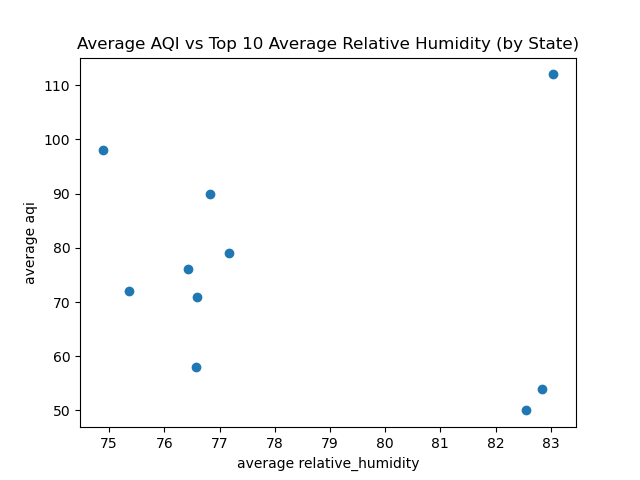
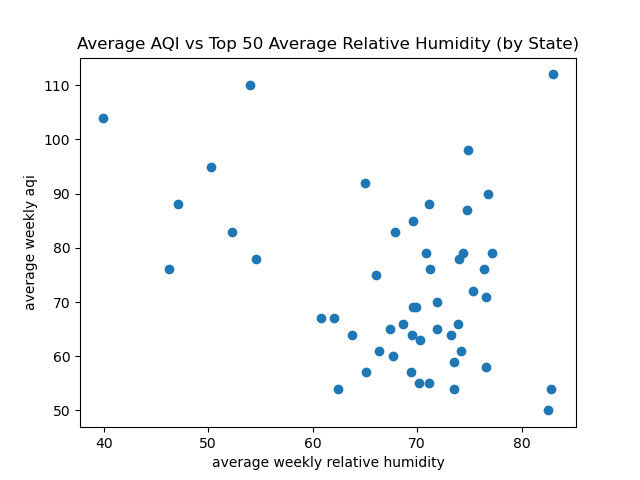
updated visuals to top 50

diff --git a/visuals.py b/visuals.py
@@ -30,17 +30,17 @@ for num in data[1:]:
 def create_temperature_graph():
     sort_by_temperature = sorted(num_data, key = lambda x: x[1])
 
-    top_10_temperature = []
+    top_50_temperature = []
     top_aqi = []
-    for index in range(len(sort_by_temperature) - 10, len(sort_by_temperature)):
-        top_10_temperature.append(sort_by_temperature[index][1])
+    for index in range(len(sort_by_temperature) - 50, len(sort_by_temperature)):
+        top_50_temperature.append(sort_by_temperature[index][1])
         top_aqi.append(sort_by_temperature[index][5])
 
     fig1, ax1 = plt.subplots()
-    ax1.scatter(top_10_temperature, top_aqi)
-    ax1.set_xlabel("average temperature")
-    ax1.set_ylabel("average aqi")
-    ax1.set_title("Average AQI vs Top 10 Average Temperature (by State)")
+    ax1.scatter(top_50_temperature, top_aqi)
+    ax1.set_xlabel("average weekly temperature")
+    ax1.set_ylabel("average weekly aqi")
+    ax1.set_title("Average AQI vs Top 50 Average Temperature (by State)")
 
     fig1.savefig("temperature.png")
 
@@ -48,17 +48,17 @@ def create_temperature_graph():
 def create_humidity_graph():
     sort_by_humidity = sorted(num_data, key = lambda x: x[2])
 
-    top_10_humidity = []
+    top_50_humidity = []
     top_aqi = []
-    for index in range(len(sort_by_humidity) - 10, len(sort_by_humidity)):
-        top_10_humidity.append(sort_by_humidity[index][2])
+    for index in range(len(sort_by_humidity) - 50, len(sort_by_humidity)):
+        top_50_humidity.append(sort_by_humidity[index][2])
         top_aqi.append(sort_by_humidity[index][5])
 
     fig2, ax2 = plt.subplots()
-    ax2.scatter(top_10_humidity, top_aqi)
-    ax2.set_xlabel("average relative_humidity")
-    ax2.set_ylabel("average aqi")
-    ax2.set_title("Average AQI vs Top 10 Average Relative Humidity (by State)")
+    ax2.scatter(top_50_humidity, top_aqi)
+    ax2.set_xlabel("average weekly relative humidity")
+    ax2.set_ylabel("average weekly aqi")
+    ax2.set_title("Average AQI vs Top 50 Average Relative Humidity (by State)")
 
     fig2.savefig("humidity.png")
 
@@ -66,17 +66,17 @@ def create_humidity_graph():
 def create_precipitation_graph():
     sort_by_precipitation = sorted(num_data, key = lambda x: x[3])
 
-    top_10_precipitation = []
+    top_50_precipitation = []
     top_aqi = []
-    for index in range(len(sort_by_precipitation) - 10, len(sort_by_precipitation)):
-        top_10_precipitation.append(sort_by_precipitation[index][3])
+    for index in range(len(sort_by_precipitation) - 50, len(sort_by_precipitation)):
+        top_50_precipitation.append(sort_by_precipitation[index][3])
         top_aqi.append(sort_by_precipitation[index][5])
 
     fig3, ax3 = plt.subplots()
-    ax3.scatter(top_10_precipitation, top_aqi)
-    ax3.set_xlabel("average precipitation")
-    ax3.set_ylabel("average aqi")
-    ax3.set_title("Average AQI vs Top 10 Average Precipitation (by State)")
+    ax3.scatter(top_50_precipitation, top_aqi)
+    ax3.set_xlabel("average weekly precipitation")
+    ax3.set_ylabel("average weekly aqi")
+    ax3.set_title("Average AQI vs Top 50 Average Precipitation (by State)")
 
     fig3.savefig("precipitation.png")
 
@@ -84,17 +84,17 @@ def create_precipitation_graph():
 def create_cloud_cover_graph():
     sort_by_cloud_cover = sorted(num_data, key = lambda x: x[4])
 
-    top_10_cloud_cover = []
+    top_50_cloud_cover = []
     top_aqi = []
-    for index in range(len(sort_by_cloud_cover) - 10, len(sort_by_cloud_cover)):
-        top_10_cloud_cover.append(sort_by_cloud_cover[index][4])
+    for index in range(len(sort_by_cloud_cover) - 50, len(sort_by_cloud_cover)):
+        top_50_cloud_cover.append(sort_by_cloud_cover[index][4])
         top_aqi.append(sort_by_cloud_cover[index][5])
 
     fig4, ax4 = plt.subplots()
-    ax4.scatter(top_10_cloud_cover, top_aqi)
-    ax4.set_xlabel("average cloud cover")
-    ax4.set_ylabel("average aqi")
-    ax4.set_title("Average AQI vs Top 10 Average Cloud Cover (by State)")
+    ax4.scatter(top_50_cloud_cover, top_aqi)
+    ax4.set_xlabel("average weekly cloud cover")
+    ax4.set_ylabel("average weekly aqi")
+    ax4.set_title("Average AQI vs Top 50 Average Cloud Cover (by State)")
 
     fig4.savefig("cloud_cover.png")
 
